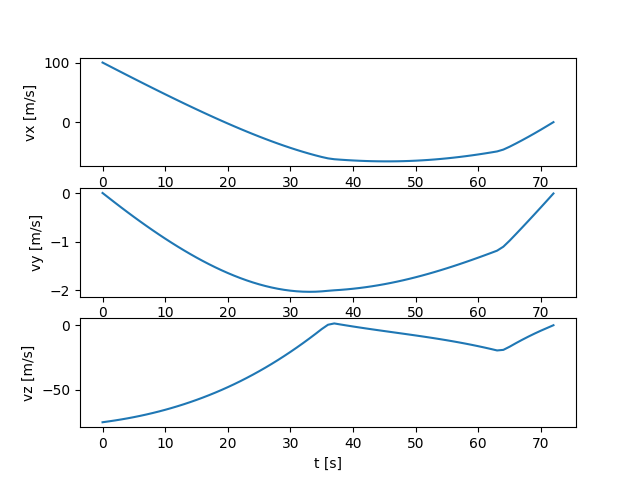
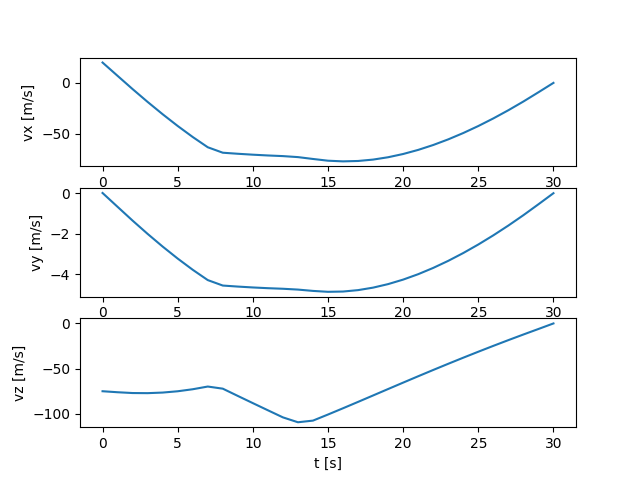
new initial conditions

diff --git a/3dof_guidance/generateTrajectory.py b/3dof_guidance/generateTrajectory.py
@@ -3,32 +3,60 @@ import numpy as np
 import matplotlib.pyplot as plt
 
 ## Constants
+# g0 = 9.80665
+# dry_mass = 1505
+# Isp = 225
+# max_throttle = 0.8
+# min_throttle = 0.3
+# g = np.array([0,0,-3.7114]) # Mars Gravity
+# T_max = 6*3100
+# φ = 27*np.deg2rad(1) # Cant angle of thrusters (deg)
+# nThruster = 1
+# γ = 4*np.deg2rad(1) # glide slop constraint
+# wet_mass = 1905
+
+# ## Initial Conditions
+# r0 = 1000 * np.array([1.5, 0.1, 2])
+# v0 = np.array([100,0.01,-75])
+# ## Terminal Conditions set to origin
+# rf = np.array([0,0,0])
+# vf = np.array([0,0,0])
+# ## Time of Flight
+# tf = 72
+# dt = 1
+
+# New Shepard
 g0 = 9.80665
-dry_mass = 1505
-Isp = 225
-max_throttle = 0.8
-min_throttle = 0.3
-g = np.array([0,0,-3.7114]) # Mars Gravity
-T_max = 6*3100
-φ = 27*np.deg2rad(1) # Cant angle of thrusters (deg)
-nThruster = 1
-γ = 4*np.deg2rad(1) # glide slop constraint
-wet_mass = 1905
+dry_mass = 20569
+wet_mass = 25000 # Assumed from start of landing burn
+Isp = 260
+max_throttle = 0.8 # Safety
+min_throttle = 0.1
+g = np.array([0.0,0.0,-9.81])
+T_max = 490000
+φ = 0*np.deg2rad(1)
+γ = np.deg2rad(4)
+n = np.array([0,0,1])
+θ = np.deg2rad(90)
 
 ## Initial Conditions
 r0 = 1000 * np.array([1.5, 0.1, 2])
 v0 = np.array([100,0.01,-75])
+v0 = np.array([20,0.01,-75])
 ## Terminal Conditions set to origin
 rf = np.array([0,0,0])
 vf = np.array([0,0,0])
+
 ## Time of Flight
-tf = 72
+tf = 30
 dt = 1
+
+
 N = int(np.ceil(tf/dt) + 1)
 ts = np.arange(0,tf,dt)
 
 ## Constraint Parameters
-α = 1/(Isp*g0*np.cos(φ))
+α = 1/(g0*Isp*np.cos(φ))
 ρ1 = min_throttle*T_max*np.cos(φ)
 ρ2 = max_throttle*T_max*np.cos(φ)
 
@@ -103,7 +131,7 @@ ax.plot3D(r.value[:,0],r.value[:,1],r.value[:,2])
 ax.set_xlabel("X [m]")
 ax.set_ylabel("Y [m]")
 ax.set_zlabel("Z [m]")
-plt.savefig("../figures/3dof_trajectory.png")
+plt.savefig("figures/3dof_trajectory.png")
 
 t_span = np.linspace(0,tf,N)
 plt.figure()
@@ -117,7 +145,7 @@ plt.subplot(3,1,3)
 plt.plot(t_span,r.value[:,2])
 plt.xlabel("t [s]")
 plt.ylabel("rz [m]")
-plt.savefig("../figures/3dof_pos.png")
+plt.savefig("figures/3dof_pos.png")
 
 plt.figure()
 plt.subplot(3,1,1)
@@ -130,7 +158,7 @@ plt.subplot(3,1,3)
 plt.plot(t_span,v.value[:,2])
 plt.xlabel("t [s]")
 plt.ylabel("vz [m/s]")
-plt.savefig("../figures/3dof_vel.png")
+plt.savefig("figures/3dof_vel.png")
 
 
 Tx = u.value[:,0] * m
@@ -169,4 +197,4 @@ plt.plot(t_span,m)
 plt.ticklabel_format(style='plain')
 plt.ylabel("m [kg]")
 plt.xlabel("t [s]")
-plt.savefig("../figures/3dof_control.png")
+plt.savefig("figures/3dof_control.png")

diff --git a/3dof_guidance/generateTrajectory_pointingConstraints.py b/3dof_guidance/generateTrajectory_pointingConstraints.py
@@ -3,34 +3,59 @@ import numpy as np
 import matplotlib.pyplot as plt
 
 ## Constants
+# Mars
+# dry_mass = 1700
+# Isp = 225
+# max_throttle = 0.8
+# min_throttle = 0.2
+# g = np.array([0,0,-3.7114]) # Mars Gravity
+# T_max = 24000
+# γ = 4*np.deg2rad(1) # glide slope constraint
+# wet_mass = 2000
+# n = np.array([0,0,1]) # Nominal thrust pointing vector
+# θ = np.deg2rad(45) # Attitude constraint
+## Initial Conditions
+# r0 = np.array([450, -330, 2400])
+# v0 = np.array([-40,10,-10])
+# ## Terminal Conditions set to origin
+# rf = np.array([0,0,0])
+# vf = np.array([0,0,0])
+# ## Time of Flight
+# tf = 57
+# dt = 1
+
+# New Shepard
 g0 = 9.80665
-dry_mass = 1700
-Isp = 225
-max_throttle = 0.8
-min_throttle = 0.2
-g = np.array([0,0,-3.7114]) # Mars Gravity
-T_max = 24000
-γ = 4*np.deg2rad(1) # glide slope constraint
-wet_mass = 2000
-n = np.array([0,0,1]) # Nominal thrust pointing vector
-θ = np.deg2rad(45) # Attitude constraint
+dry_mass = 20569
+wet_mass = 25000 # Assumed from start of landing burn
+Isp = 260
+max_throttle = 0.8 # Safety
+min_throttle = 0.1
+g = np.array([0.0,0.0,-9.81])
+T_max = 490000
+φ = 0*np.deg2rad(1)
+γ = np.deg2rad(5)
+n = np.array([0,0,1])
+θ = np.deg2rad(20)
 
 ## Initial Conditions
-r0 = np.array([450, -330, 2400])
-v0 = np.array([-40,10,-10])
+r0 = 1000 * np.array([0.5, 0.1, 2])
+v0 = np.array([20,0.01,-75])
 ## Terminal Conditions set to origin
 rf = np.array([0,0,0])
 vf = np.array([0,0,0])
 ## Time of Flight
-tf = 57
+tf = 30
 dt = 1
+
+
 N = int(np.ceil(tf/dt) + 1)
 ts = np.arange(0,tf,dt)
 
 ## Constraint Parameters
-α = 5E-4
-ρ1 = min_throttle*T_max
-ρ2 = max_throttle*T_max
+α = 1/(g0*Isp*np.cos(φ))
+ρ1 = min_throttle*T_max*np.cos(φ)
+ρ2 = max_throttle*T_max*np.cos(φ)
 
 #### Set up CVXPY Problem
 r = cp.Variable((N,3))
@@ -184,3 +209,16 @@ plt.ticklabel_format(style='plain')
 plt.ylabel("m [kg]")
 plt.xlabel("t [s]")
 plt.savefig("figures/3dof_control_attitude.png")
+
+plt.figure()
+plt.subplot(3,1,1)
+plt.plot(t_span,Tx)
+plt.ylabel("Tx [N]")
+plt.subplot(3,1,2)
+plt.plot(t_span,Ty)
+plt.ylabel("Ty [N]")
+plt.subplot(3,1,3)
+plt.plot(t_span,Tz)
+plt.xlabel("t [s]")
+plt.ylabel("Tz [N]")
+plt.savefig("figures/3dof_controlVector_attitude.png")

diff --git a/3dof_tracking/lqr_tracking.py b/3dof_tracking/lqr_tracking.py
@@ -38,8 +38,8 @@ def dynamics(x, u):
     x = numpy.1darray, r = x[0:3], v = x[3:6], m = x[6]
     g = [gx, gy, gz]
     """
-    g = jnp.array([0,0,-3.7114])
-    α = 5E-4
+    g = jnp.array([0.0,0.0,-9.81])
+    α = 3.9246E-4
     return jnp.array([
         x[3],
         x[4],
@@ -52,7 +52,7 @@ def dynamics(x, u):
 
 n = 7
 m = 3
-Q = 100*np.identity(n)
+Q = 10000*np.identity(n)
 Q[2,2] = 10000
 R = 0.01*np.identity(m)
 closed_loop = True
@@ -65,7 +65,7 @@ x_data = np.hstack((pos,vel,mass))
 
 u_data = np.load("data/thrust.npy")
 
-tf = 57
+tf = 30
 dt = 1
 N = int(np.ceil(tf/dt) + 1)
 ts = np.arange(0,tf+dt,dt)

diff --git a/gfold/3dof_mpc.py b/gfold/3dof_mpc.py
@@ -42,8 +42,8 @@ def run_mpc(  N,                # receding horizon (parameter)
         objective = cp.Minimize(-z[N-1])
         ## Terminal Constraints
         constraints += [
-            r[N-1] == rf,
-            v[N-1] == vf
+            r[N-1] == rf,   
+            v[N-1] == vf    
         ]
     elif objective_choice == 'error_opt':
         # objective = cp.Minimize(cp.norm2(r[N-1,0:2] - rf[0:2]))
